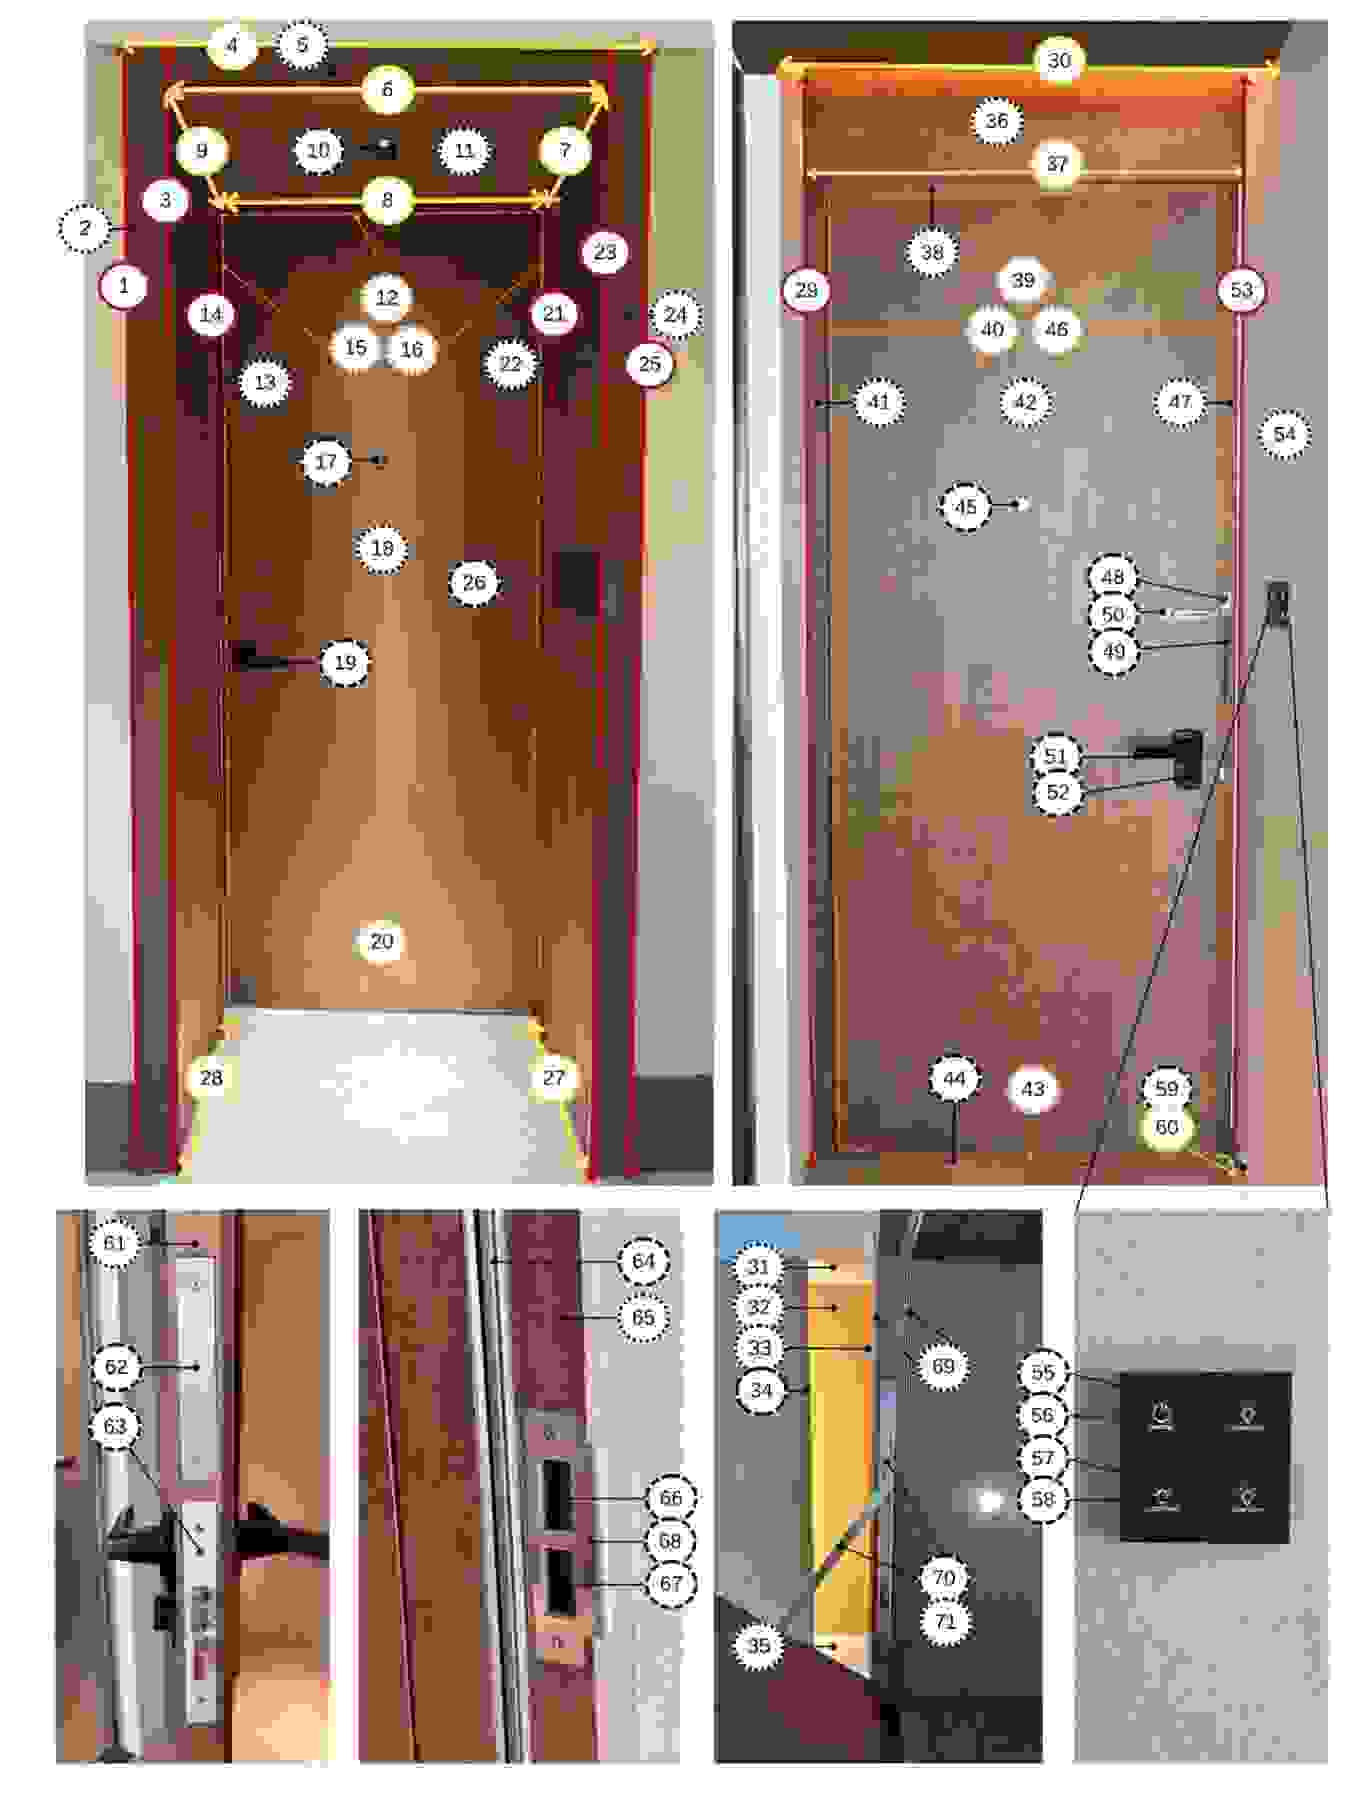
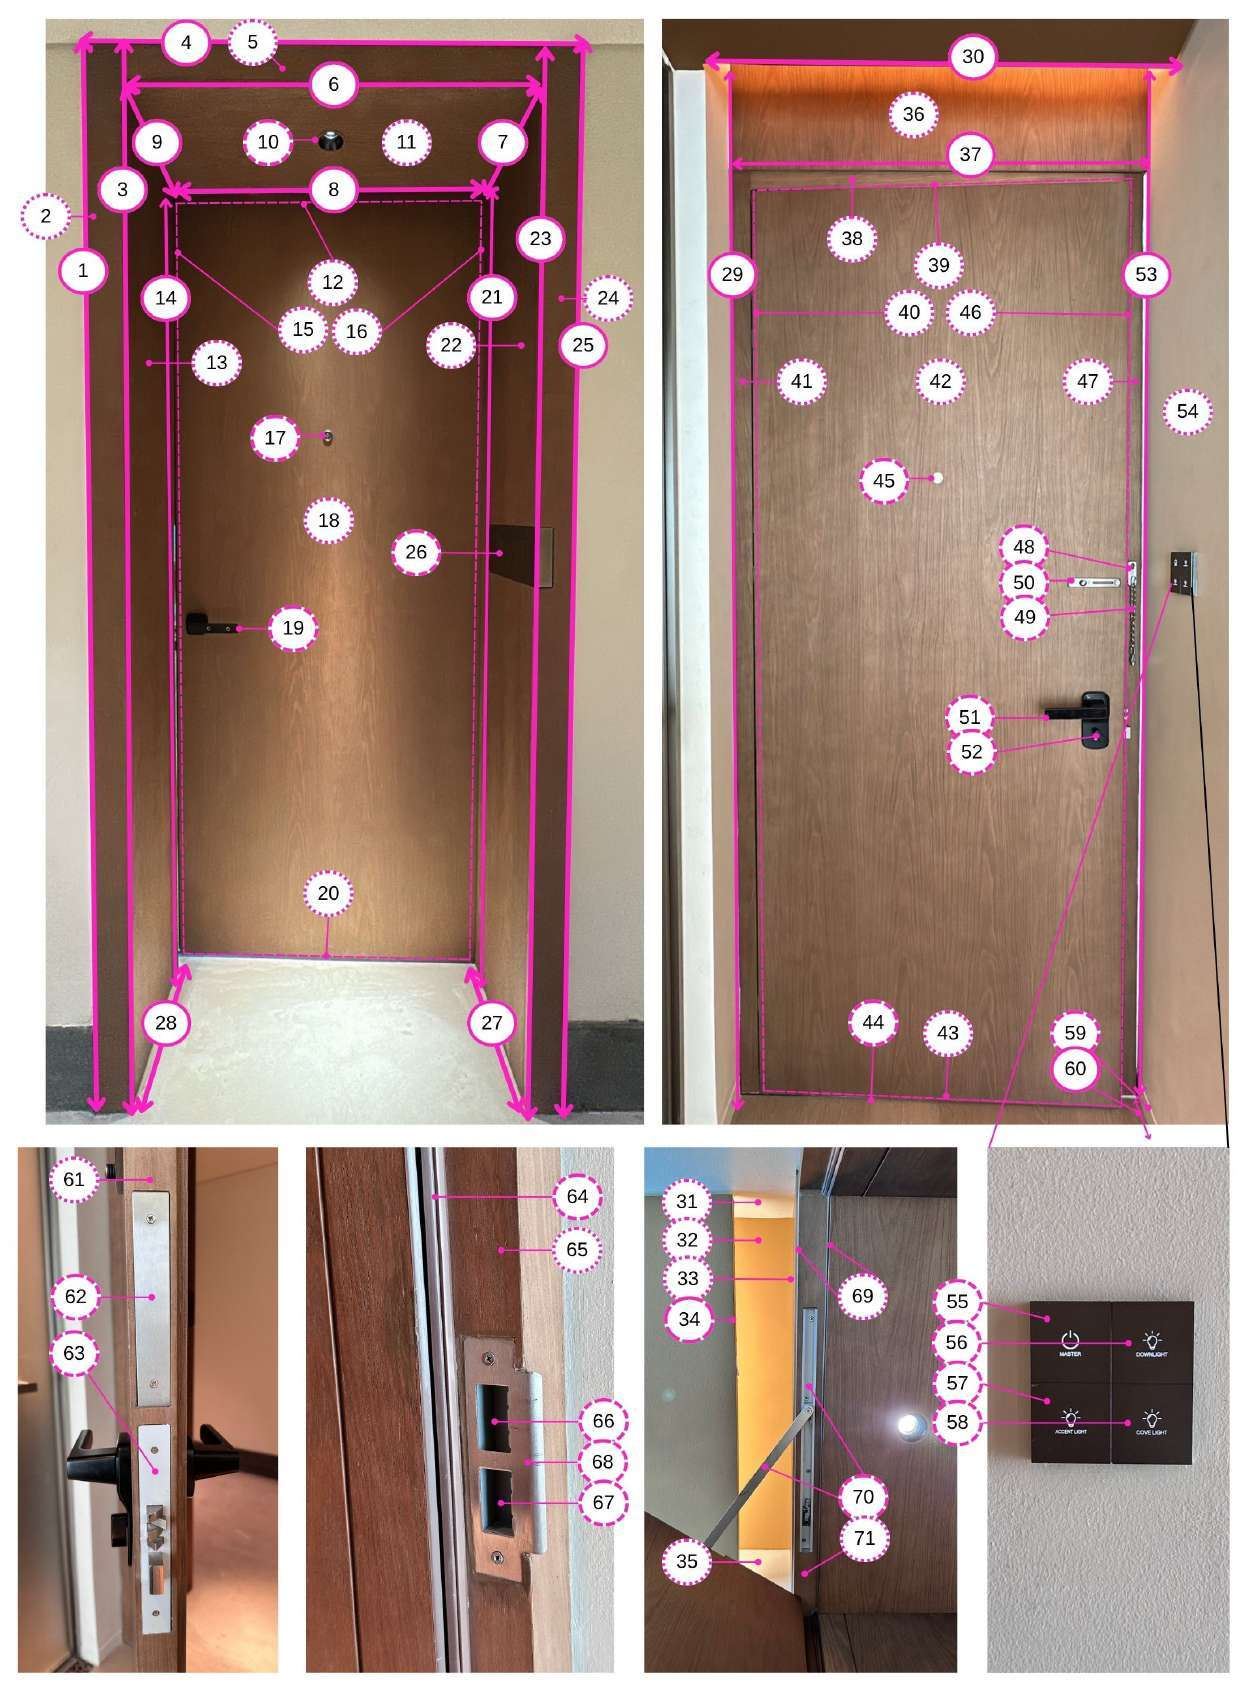
Replace 5 reference photos with correct-colour originals
Door, Sink, Luggage, Shower and Toilet now come from the per-category
PDFs, which kept the photos intact. Magenta callouts went from ~0% of
saturated pixels to 12-64%, and the photos are no longer washed out.

The images are copied through unmodified rather than re-encoded:
re-encoding at quality 0.88 collapsed a 217 KB source to 25 KB, which
was visibly destroying the small callout numbers.

Category 3 is renamed Language -> Luggage. The source spreadsheet had a
typo; the file supplied for this category is named Luggage and the photo
is a luggage bench, so the Sheet column now records the intended name.

Still on the degraded originals from the combined export: Bed, Mirror,
Minibar, Ceiling, Floor.

Claude-Session: https://claude.ai/code/session_01ALkYgxG4hS1Sx2jvTHdaBP

diff --git a/js/checklist.js b/js/checklist.js
@@ -33,7 +33,7 @@ const RESULTS = [
 const CATEGORIES = [
   {
     id: 'door', name: 'Door', th: 'ประตูทางเข้า',
-    img: 'img/cat01.jpg', imgW: 1368, imgH: 1800,
+    img: 'img/cat01.jpg', imgW: 1240, imgH: 1687,
     pins: [],
     items: [
       { no: 1, th: 'เส้นขอบไม้ vertical - 01' },
@@ -112,7 +112,7 @@ const CATEGORIES = [
   },
   {
     id: 'sink', name: 'Sink', th: 'อ่างล้างหน้า',
-    img: 'img/cat02.jpg', imgW: 1273, imgH: 1800,
+    img: 'img/cat02.jpg', imgW: 1240, imgH: 1753,
     notes: [
       'ประเภทหมุด — วงกลมแดง: เส้นขอบ vertical · วงกลมเหลือง: เส้นขอบ horizontal · วงกลมเส้นประ: สิ่งของ / ผิวผนัง / พื้น',
     ],
@@ -170,8 +170,8 @@ const CATEGORIES = [
     ],
   },
   {
-    id: 'luggage', name: 'Language', th: 'ม้านั่ง / วางกระเป๋า',
-    img: 'img/cat03.jpg', imgW: 1273, imgH: 1800,
+    id: 'luggage', name: 'Luggage', th: 'ม้านั่ง / วางกระเป๋า',
+    img: 'img/cat03.jpg', imgW: 1240, imgH: 1753,
     pins: [],
     items: [
       { no: 1, th: 'เส้นขอบผนัง Horizontal - 01' },
@@ -408,7 +408,7 @@ const CATEGORIES = [
   },
   {
     id: 'shower', name: 'Shower', th: 'ห้องอาบน้ำ',
-    img: 'img/cat07.jpg', imgW: 1660, imgH: 1046,
+    img: 'img/cat07.jpg', imgW: 1240, imgH: 787,
     pins: [],
     items: [
       { no: 1, th: 'เส้นขอบผนัง vertical - 01' },
@@ -493,7 +493,7 @@ const CATEGORIES = [
   },
   {
     id: 'toilet', name: 'Toilet', th: 'ห้องน้ำ / สุขภัณฑ์',
-    img: 'img/cat08.jpg', imgW: 1800, imgH: 1109,
+    img: 'img/cat08.jpg', imgW: 1240, imgH: 762,
     pins: [],
     items: [
       { no: 1, th: 'เส้นขอบผนัง vertical - 01' },
